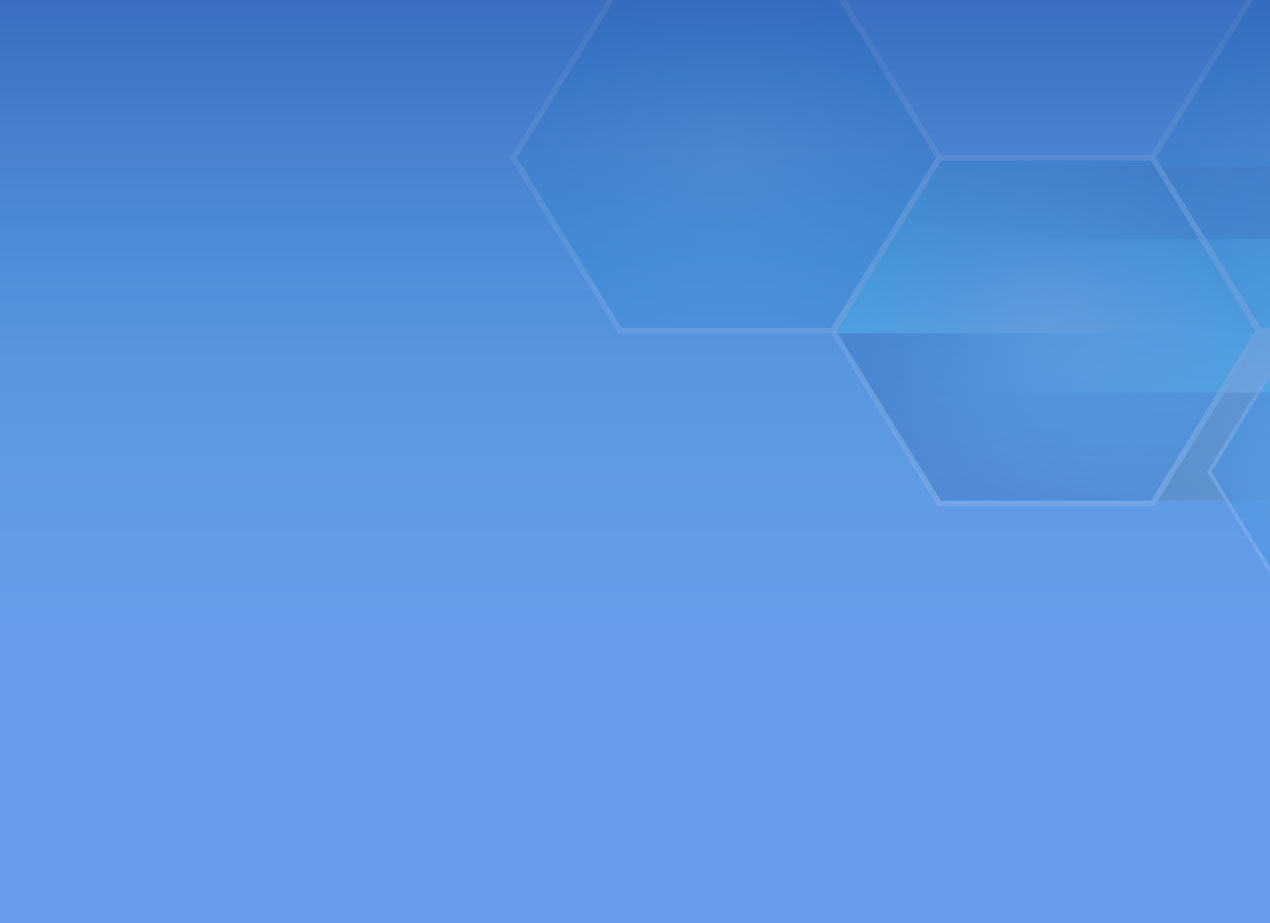
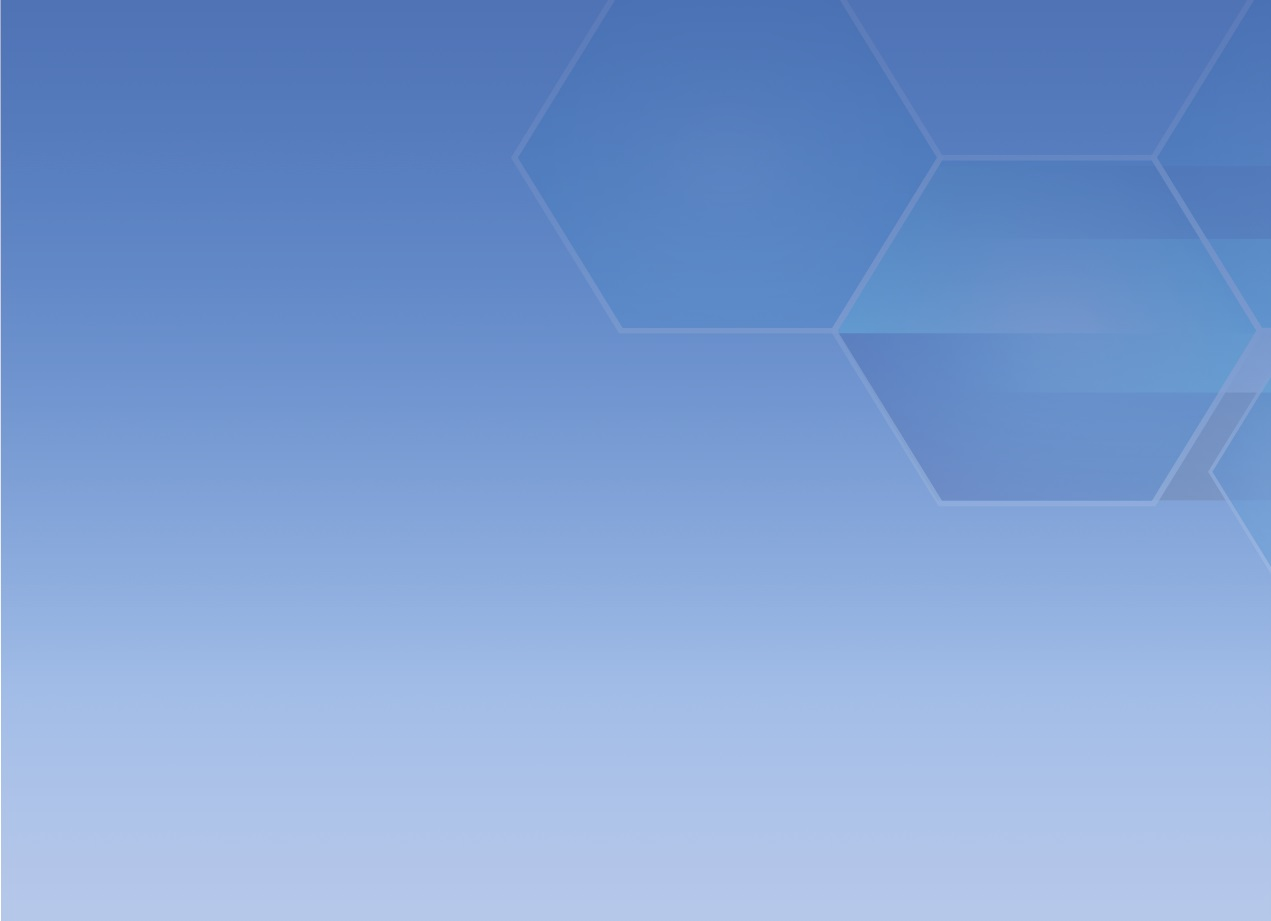
31.10 end work

diff --git a/aauproject/app/css/base.css b/aauproject/app/css/base.css
@@ -45,7 +45,7 @@ a {
   font-size: 16px;
   text-transform: uppercase;
   letter-spacing: 0.1em;
-  color: #0080c6;
+  color: #5073b6;
   -webkit-transition: 0.2s all ease-in-out;
   -o-transition: 0.2s all ease-in-out;
   transition: 0.2s all ease-in-out;
@@ -70,31 +70,33 @@ a {
   background-color: #fff;
 }
 .btn-xl:hover {
-  background-color: #0080c6;
+  background-color: #5073b6;
   color: #fff;
 }
 .btn-l {
   max-width: 330px;
-  background-color: #0080c6;
+  background-color: #5073b6;
   color: #fff;
-  line-height: 76px;
-  border: 2px solid #0080c6;
+  border: 2px solid #5073b6;
+  font-size: 16px;
+  letter-spacing: 1.6px;
+  font-family: 'Helvetica-Bold';
 }
 .btn-l:hover {
-  background-color: #fff;
-  color: #0080c6;
-  border: 2px solid #0080c6;
+  background-color: transparent;
+  color: #5073b6;
+  border: 2px solid #5073b6;
 }
 .btn-m {
   max-width: 310px;
   background-color: transparent;
-  border: 2px solid #0080c6;
+  border: 2px solid #5073b6;
   line-height: 76px;
 }
 .btn-m:hover {
-  background-color: #0080c6;
+  background-color: #5073b6;
   color: #fff;
-  border: 2px solid #0080c6;
+  border: 2px solid #5073b6;
 }
 .btn-s {
   max-width: 290px;
@@ -110,14 +112,14 @@ a {
 }
 .btn-xs {
   max-width: 220px;
-  background-color: #0080c6;
+  background-color: #5073b6;
   color: #fff;
-  border: 2px solid #0080c6;
+  border: 2px solid #5073b6;
   line-height: 76px;
 }
 .btn-xs:hover {
-  color: #0080c6;
-  border: 2px solid #0080c6;
+  color: #5073b6;
+  border: 2px solid #5073b6;
   background-color: #fff;
 }
 .container {
@@ -150,6 +152,11 @@ a {
   position: absolute;
   top: 5px;
   right: 0;
+}
+.heading .heading-purple {
+  color: #5c77b3;
+  font-weight: 400;
+  letter-spacing: 1.2px;
 }
 .blog-entry {
   display: -webkit-box;
@@ -195,7 +202,7 @@ a {
   position: absolute;
   top: 11px;
   left: 110px;
-  background-color: #0080c6;
+  background-color: #5073b6;
 }
 .blog-entry .blog-entry-text .blog-text-preview {
   font-size: 14px;
@@ -220,6 +227,7 @@ a {
   -webkit-justify-content: flex-end;
       -ms-flex-pack: end;
           justify-content: flex-end;
+  color: #2b3384;
 }
 .blog-entry .blog-entry-text .read-more img {
   margin-left: 10px;

diff --git a/aauproject/app/css/main.css b/aauproject/app/css/main.css
@@ -71,6 +71,9 @@ footer {
   width: 230px;
   font-family: 'HelveticaNeue-Roman';
 }
+.bottomnav__list-item--subtitle:hover {
+  font-family: 'Helvetica-Bold';
+}
 .bottomnav__list-item--link {
   color: #fff;
   font-family: 'Helvetica-Regular';
@@ -78,6 +81,9 @@ footer {
   font-weight: 400px;
   letter-spacing: 0.4px;
   line-height: 30px;
+}
+.bottomnav__list-item--link:hover {
+  font-family: 'Helvetica-Bold';
 }
 .bottomnav__sublist {
   list-style-type: disc;
@@ -91,6 +97,9 @@ footer {
   letter-spacing: 0.4px;
   line-height: 30px;
   text-transform: none;
+}
+.bottomnav__sublist-item--link:hover {
+  font-family: 'Helvetica-Bold';
 }
 .bottom-footer {
   background-color: #496bab;
@@ -1109,6 +1118,10 @@ footer {
       -ms-flex-pack: end;
           justify-content: flex-end;
 }
+header {
+  margin-bottom: 20px;
+  border-bottom: 1px solid #dbe0ea;
+}
 .main-menu {
   display: -webkit-box;
   display: -webkit-flex;
@@ -1118,10 +1131,12 @@ footer {
   -webkit-justify-content: space-between;
       -ms-flex-pack: justify;
           justify-content: space-between;
+  height: 80px;
 }
 .logo-wrap {
   position: relative;
   bottom: 50px;
+  left: 2%;
 }
 .menu-block {
   max-width: 520px;
@@ -1164,7 +1179,7 @@ footer {
   border-right: 4px solid transparent;
   border-top: 4px solid #343537;
   top: 20%;
-  left: 110%;
+  left: 105%;
 }
 .menu-block .menu .menu-item a:before {
   content: "";
@@ -1457,7 +1472,7 @@ footer {
   height: 70px;
 }
 .main-forum .full .bg .forum-about .btn-block .btn-xl:hover {
-  background-color: #00598a;
+  background-color: #5073b6;
 }
 .main-forum .full .bg .forum-about .btn-block .btn-s {
   line-height: 66px;
@@ -1569,10 +1584,15 @@ footer {
 .general-partners .container .heading {
   padding: 0 15px;
 }
+.text {
+  color: #343537;
+}
 .text p {
   line-height: 30px;
   text-align: justify;
   margin-bottom: 20px;
+  font-weight: 300;
+  font-family: 'HelveticaNeue-Roman';
 }
 .text p:last-child {
   margin-bottom: 0;

diff --git a/aauproject/app/index.html b/aauproject/app/index.html
@@ -194,7 +194,7 @@
 					<div class="separator">
 						<img src="img/all/separatop.png" alt="">
 					</div>
-					<h4>Всеукраїнська громадська організація<br>
+					<h4 class="heading-purple">Всеукраїнська громадська організація<br>
 						"Асоціація адвокатів України"</h4>
 				</div>
 				<div class="text">
@@ -780,7 +780,7 @@
 					<a href="https://www.facebook.com/www.uaa.org.ua/" target="_blank" class="fb"><div class="transform"><img src="img/main/menu-fb.png" alt=""><img src="img/main/menu-fb-hover.png" alt="" class="fb-hover"></div></a>
 				</div>
 				<div class="telegram">
-					<a href="#" target="_blank" class="teleg"><div class="transform"><img src="img/main/telegram.png" alt=""><img src="img/main/menu-fb-hover.png" alt="" class="telegram-hover"></div></a>
+					<a href="#" target="_blank" class="teleg"><div class="transform"><img src="img/main/telegram.png" alt=""><img src="img/main/telegram-hover.png" alt="" class="telegram-hover"></div></a>
 				</div>
 			</div>
 

diff --git a/aauproject/app/css/footer.css b/aauproject/app/css/footer.css
@@ -71,6 +71,9 @@ footer {
   width: 230px;
   font-family: 'HelveticaNeue-Roman';
 }
+.bottomnav__list-item--subtitle:hover {
+  font-family: 'Helvetica-Bold';
+}
 .bottomnav__list-item--link {
   color: lightColor;
   font-family: 'Helvetica-Regular';
@@ -78,6 +81,9 @@ footer {
   font-weight: 400px;
   letter-spacing: 0.4px;
   line-height: 30px;
+}
+.bottomnav__list-item--link:hover {
+  font-family: 'Helvetica-Bold';
 }
 .bottomnav__sublist {
   list-style-type: disc;
@@ -91,6 +97,9 @@ footer {
   letter-spacing: 0.4px;
   line-height: 30px;
   text-transform: none;
+}
+.bottomnav__sublist-item--link:hover {
+  font-family: 'Helvetica-Bold';
 }
 .bottom-footer {
   background-color: #496bab;
